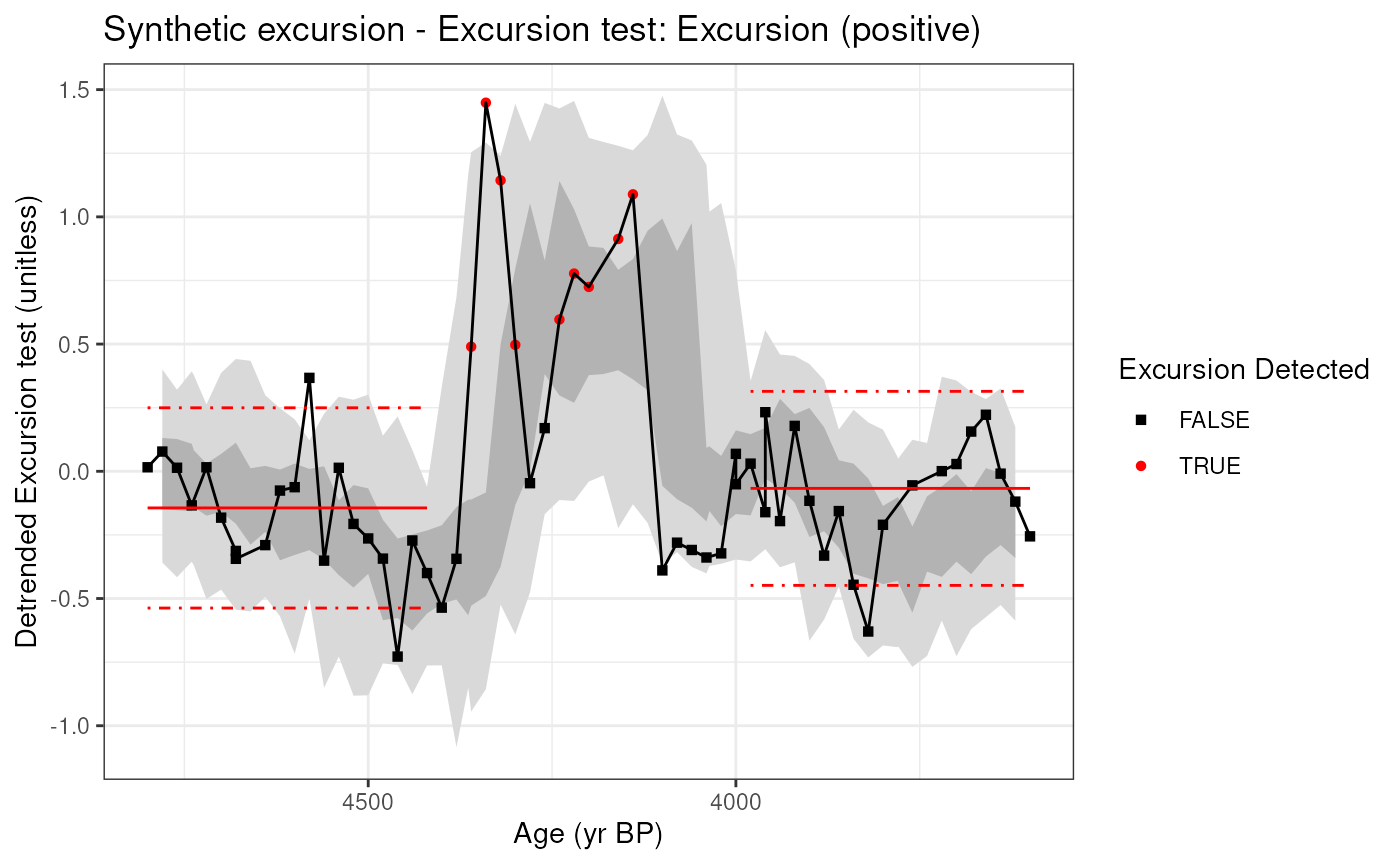
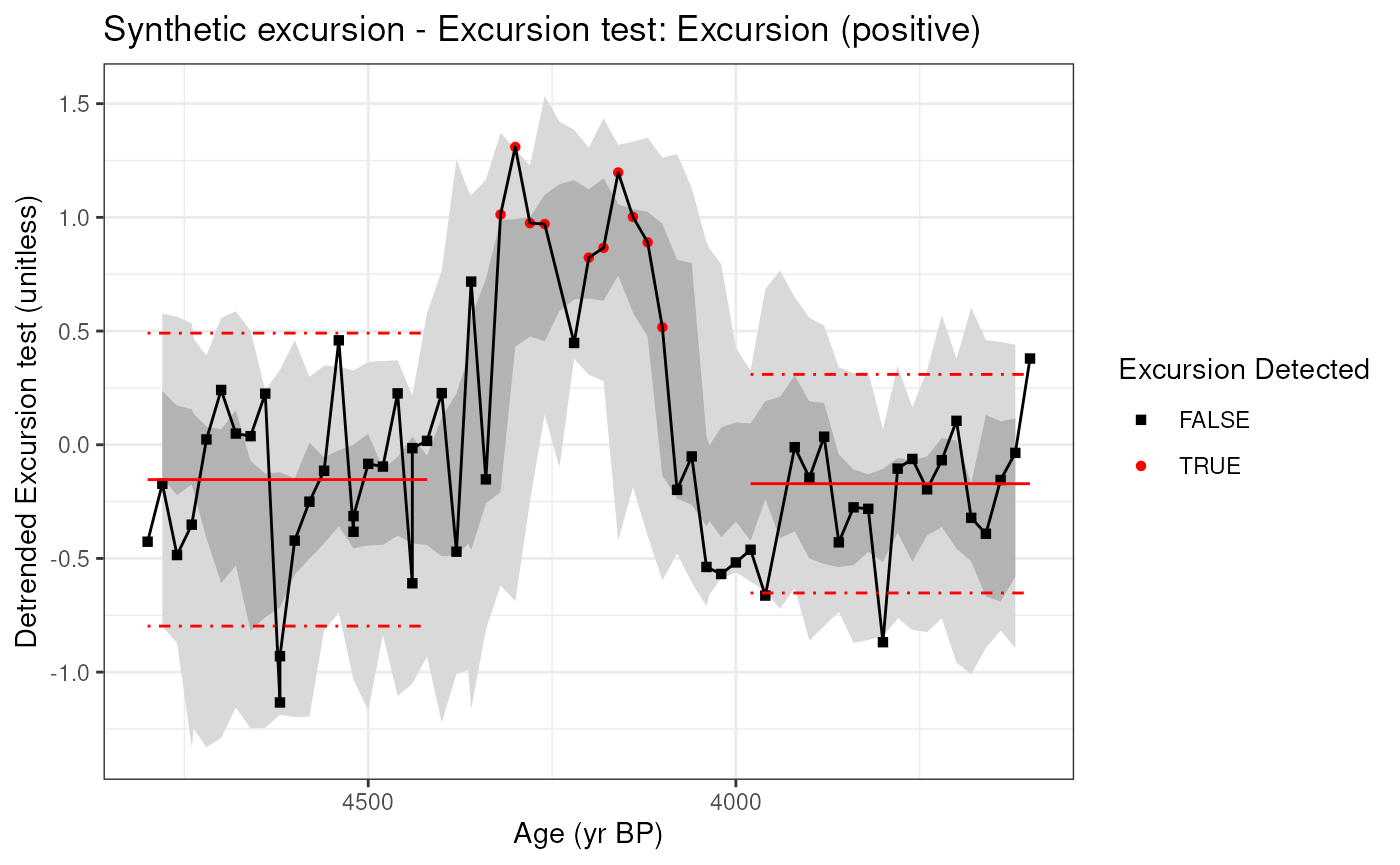
Deploying to gh-pages from @ LinkedEarth/actR@6e4e0f8905d2092e5438ac9460065cdd15b53cc9 🚀

diff --git a/articles/detectExcursion.html b/articles/detectExcursion.html
@@ -146,7 +146,7 @@ functions will summarize the results.</p>
 <span><span class="co"><span style="font-weight: bold;">#&gt; </span><span style="color: #555555;">sig.num = 2</span></span></span>
 <span><span class="co"><span style="color: #555555;">#&gt; n.consecutive = 2</span></span></span>
 <span><span class="co"><span style="color: #555555;">#&gt; exc.type = either</span></span></span>
-<span><span class="co"><span style="color: #555555;">#&gt; min.vals = 4</span></span></span>
+<span><span class="co"><span style="color: #555555;">#&gt; min.vals = 2</span></span></span>
 <span><span class="co"><span style="color: #555555;">#&gt; na.rm = TRUE</span></span></span>
 <span><span class="co"><span style="color: #555555;">#&gt; </span></span></span></code></pre></div>
 <p>Here we see the results, but it’s easier to see the results,
@@ -196,21 +196,17 @@ null hypothesis simulation 50 times.</p>
 <span><span class="co">#&gt; Selected d18O</span></span>
 <span><span class="co">#&gt; <span style="color: #00BB00;">Testing null hypothesis with 50 simulations, each with 50 ensemble members. </span></span></span>
 <span><span class="co"><span style="color: #00BB00;">#&gt; </span></span></span>
-<span><span class="co">#&gt; Testing null hypothesis <span style="color: #00BB00;">■■                              </span>   2% |  ETA:  1m</span></span>
-<span><span class="co">#&gt; Testing null hypothesis <span style="color: #00BB00;">■■■■                            </span>  10% |  ETA: 45s</span></span>
-<span><span class="co">#&gt; Testing null hypothesis <span style="color: #00BB00;">■■■■■■                          </span>  16% |  ETA: 40s</span></span>
-<span><span class="co">#&gt; Testing null hypothesis <span style="color: #00BB00;">■■■■■■■■                        </span>  22% |  ETA: 37s</span></span>
-<span><span class="co">#&gt; Testing null hypothesis <span style="color: #00BB00;">■■■■■■■■■■                      </span>  30% |  ETA: 33s</span></span>
-<span><span class="co">#&gt; Testing null hypothesis <span style="color: #00BB00;">■■■■■■■■■■■■                    </span>  36% |  ETA: 30s</span></span>
-<span><span class="co">#&gt; Testing null hypothesis <span style="color: #00BB00;">■■■■■■■■■■■■■■                  </span>  42% |  ETA: 28s</span></span>
-<span><span class="co">#&gt; Testing null hypothesis <span style="color: #00BB00;">■■■■■■■■■■■■■■■                 </span>  48% |  ETA: 24s</span></span>
-<span><span class="co">#&gt; Testing null hypothesis <span style="color: #00BB00;">■■■■■■■■■■■■■■■■■■              </span>  56% |  ETA: 20s</span></span>
-<span><span class="co">#&gt; Testing null hypothesis <span style="color: #00BB00;">■■■■■■■■■■■■■■■■■■■■            </span>  62% |  ETA: 18s</span></span>
-<span><span class="co">#&gt; Testing null hypothesis <span style="color: #00BB00;">■■■■■■■■■■■■■■■■■■■■■           </span>  68% |  ETA: 15s</span></span>
-<span><span class="co">#&gt; Testing null hypothesis <span style="color: #00BB00;">■■■■■■■■■■■■■■■■■■■■■■■■        </span>  76% |  ETA: 11s</span></span>
-<span><span class="co">#&gt; Testing null hypothesis <span style="color: #00BB00;">■■■■■■■■■■■■■■■■■■■■■■■■■■      </span>  82% |  ETA:  8s</span></span>
-<span><span class="co">#&gt; Testing null hypothesis <span style="color: #00BB00;">■■■■■■■■■■■■■■■■■■■■■■■■■■■     </span>  88% |  ETA:  6s</span></span>
-<span><span class="co">#&gt; Testing null hypothesis <span style="color: #00BB00;">■■■■■■■■■■■■■■■■■■■■■■■■■■■■■■  </span>  96% |  ETA:  2s</span></span></code></pre></div>
+<span><span class="co">#&gt; Testing null hypothesis <span style="color: #00BB00;">■■■                             </span>   6% |  ETA: 37s</span></span>
+<span><span class="co">#&gt; Testing null hypothesis <span style="color: #00BB00;">■■■■■                           </span>  14% |  ETA: 31s</span></span>
+<span><span class="co">#&gt; Testing null hypothesis <span style="color: #00BB00;">■■■■■■■■                        </span>  24% |  ETA: 26s</span></span>
+<span><span class="co">#&gt; Testing null hypothesis <span style="color: #00BB00;">■■■■■■■■■■■                     </span>  34% |  ETA: 22s</span></span>
+<span><span class="co">#&gt; Testing null hypothesis <span style="color: #00BB00;">■■■■■■■■■■■■■■                  </span>  42% |  ETA: 20s</span></span>
+<span><span class="co">#&gt; Testing null hypothesis <span style="color: #00BB00;">■■■■■■■■■■■■■■■■■               </span>  52% |  ETA: 16s</span></span>
+<span><span class="co">#&gt; Testing null hypothesis <span style="color: #00BB00;">■■■■■■■■■■■■■■■■■■■             </span>  60% |  ETA: 13s</span></span>
+<span><span class="co">#&gt; Testing null hypothesis <span style="color: #00BB00;">■■■■■■■■■■■■■■■■■■■■■■          </span>  70% |  ETA: 10s</span></span>
+<span><span class="co">#&gt; Testing null hypothesis <span style="color: #00BB00;">■■■■■■■■■■■■■■■■■■■■■■■■        </span>  78% |  ETA:  7s</span></span>
+<span><span class="co">#&gt; Testing null hypothesis <span style="color: #00BB00;">■■■■■■■■■■■■■■■■■■■■■■■■■■■     </span>  88% |  ETA:  4s</span></span>
+<span><span class="co">#&gt; Testing null hypothesis <span style="color: #00BB00;">■■■■■■■■■■■■■■■■■■■■■■■■■■■■■■  </span>  96% |  ETA:  1s</span></span></code></pre></div>
 <p>This time, when we summarize the results, we get more interesting
 output, including an empirical p-value, which is the fraction of null
 hypothesis simulations that exceed the positivity rate in the actual
@@ -221,7 +217,7 @@ significant.</p>
 <span><span class="co">#&gt; <span style="font-weight: bold;">NGRIP.NGRIP.2004 - d18O: Excursion test results</span></span></span>
 <span><span class="co"><span style="font-weight: bold;">#&gt; </span><span style="color: #555555;">Searched for </span><span style="color: #555555; font-weight: bold;">negative</span><span style="color: #555555;"> excursions in a </span><span style="color: #555555; font-weight: bold;">200</span><span style="color: #555555;"> year window around </span><span style="color: #555555; font-weight: bold;">8200</span><span style="color: #555555;"> BP, with reference windows of </span><span style="color: #555555; font-weight: bold;">400</span><span style="color: #555555;"> years on either side.</span></span></span>
 <span><span class="co"><span style="color: #555555;">#&gt; </span></span></span>
-<span><span class="co">#&gt; <span style="font-weight: bold;">Overall result: Empirical p-value = </span><span style="color: #BB0000; font-weight: bold;">0.0612244897959183</span></span></span>
+<span><span class="co">#&gt; <span style="font-weight: bold;">Overall result: Empirical p-value = </span><span style="color: #BB0000; font-weight: bold;">0.0638297872340425</span></span></span>
 <span><span class="co"><span style="font-weight: bold;">#&gt; </span>Time uncertainty considered? <span style="color: #BB0000;">FALSE</span></span></span>
 <span><span class="co">#&gt; Paleo uncertainty considered? <span style="color: #00BB00;">TRUE</span></span></span>
 <span><span class="co">#&gt; Error propagation ensemble members = 50</span></span>
@@ -231,7 +227,7 @@ significant.</p>
 <span><span class="co"><span style="font-weight: bold;">#&gt; </span><span style="color: #555555;">sig.num = 2</span></span></span>
 <span><span class="co"><span style="color: #555555;">#&gt; n.consecutive = 2</span></span></span>
 <span><span class="co"><span style="color: #555555;">#&gt; exc.type = negative</span></span></span>
-<span><span class="co"><span style="color: #555555;">#&gt; min.vals = 4</span></span></span>
+<span><span class="co"><span style="color: #555555;">#&gt; min.vals = 2</span></span></span>
 <span><span class="co"><span style="color: #555555;">#&gt; na.rm = TRUE</span></span></span>
 <span><span class="co"><span style="color: #555555;">#&gt; </span></span></span></code></pre></div>
 <p>We also get a bit more information when plotting with uncertainties.
@@ -279,25 +275,20 @@ through our robust null hypothesis testing.</p>
 <span><span class="co">#&gt; Selected d18O</span></span>
 <span><span class="co">#&gt; <span style="color: #00BB00;">Testing null hypothesis with 50 simulations, each with 50 ensemble members. </span></span></span>
 <span><span class="co"><span style="color: #00BB00;">#&gt; </span></span></span>
-<span><span class="co">#&gt; Testing null hypothesis <span style="color: #00BB00;">■■                              </span>   4% |  ETA:  1m</span></span>
-<span><span class="co">#&gt; Testing null hypothesis <span style="color: #00BB00;">■■■                             </span>   8% |  ETA:  1m</span></span>
-<span><span class="co">#&gt; Testing null hypothesis <span style="color: #00BB00;">■■■■■                           </span>  14% |  ETA:  1m</span></span>
-<span><span class="co">#&gt; Testing null hypothesis <span style="color: #00BB00;">■■■■■■                          </span>  18% |  ETA: 48s</span></span>
-<span><span class="co">#&gt; Testing null hypothesis <span style="color: #00BB00;">■■■■■■■■                        </span>  24% |  ETA: 44s</span></span>
-<span><span class="co">#&gt; Testing null hypothesis <span style="color: #00BB00;">■■■■■■■■■■                      </span>  30% |  ETA: 40s</span></span>
-<span><span class="co">#&gt; Testing null hypothesis <span style="color: #00BB00;">■■■■■■■■■■■                     </span>  34% |  ETA: 38s</span></span>
-<span><span class="co">#&gt; Testing null hypothesis <span style="color: #00BB00;">■■■■■■■■■■■■■                   </span>  40% |  ETA: 34s</span></span>
-<span><span class="co">#&gt; Testing null hypothesis <span style="color: #00BB00;">■■■■■■■■■■■■■■                  </span>  44% |  ETA: 32s</span></span>
-<span><span class="co">#&gt; Testing null hypothesis <span style="color: #00BB00;">■■■■■■■■■■■■■■■■                </span>  50% |  ETA: 29s</span></span>
-<span><span class="co">#&gt; Testing null hypothesis <span style="color: #00BB00;">■■■■■■■■■■■■■■■■■■              </span>  56% |  ETA: 25s</span></span>
-<span><span class="co">#&gt; Testing null hypothesis <span style="color: #00BB00;">■■■■■■■■■■■■■■■■■■■             </span>  60% |  ETA: 23s</span></span>
-<span><span class="co">#&gt; Testing null hypothesis <span style="color: #00BB00;">■■■■■■■■■■■■■■■■■■■■■           </span>  66% |  ETA: 20s</span></span>
-<span><span class="co">#&gt; Testing null hypothesis <span style="color: #00BB00;">■■■■■■■■■■■■■■■■■■■■■■■         </span>  72% |  ETA: 16s</span></span>
-<span><span class="co">#&gt; Testing null hypothesis <span style="color: #00BB00;">■■■■■■■■■■■■■■■■■■■■■■■■        </span>  76% |  ETA: 14s</span></span>
-<span><span class="co">#&gt; Testing null hypothesis <span style="color: #00BB00;">■■■■■■■■■■■■■■■■■■■■■■■■■■      </span>  82% |  ETA: 10s</span></span>
-<span><span class="co">#&gt; Testing null hypothesis <span style="color: #00BB00;">■■■■■■■■■■■■■■■■■■■■■■■■■■■     </span>  88% |  ETA:  7s</span></span>
-<span><span class="co">#&gt; Testing null hypothesis <span style="color: #00BB00;">■■■■■■■■■■■■■■■■■■■■■■■■■■■■■   </span>  92% |  ETA:  5s</span></span>
-<span><span class="co">#&gt; Testing null hypothesis <span style="color: #00BB00;">■■■■■■■■■■■■■■■■■■■■■■■■■■■■■■  </span>  98% |  ETA:  1s</span></span></code></pre></div>
+<span><span class="co">#&gt; Testing null hypothesis <span style="color: #00BB00;">■■■                             </span>   6% |  ETA: 42s</span></span>
+<span><span class="co">#&gt; Testing null hypothesis <span style="color: #00BB00;">■■■■■                           </span>  14% |  ETA: 39s</span></span>
+<span><span class="co">#&gt; Testing null hypothesis <span style="color: #00BB00;">■■■■■■■                         </span>  20% |  ETA: 37s</span></span>
+<span><span class="co">#&gt; Testing null hypothesis <span style="color: #00BB00;">■■■■■■■■■                       </span>  26% |  ETA: 34s</span></span>
+<span><span class="co">#&gt; Testing null hypothesis <span style="color: #00BB00;">■■■■■■■■■■■                     </span>  34% |  ETA: 29s</span></span>
+<span><span class="co">#&gt; Testing null hypothesis <span style="color: #00BB00;">■■■■■■■■■■■■■                   </span>  40% |  ETA: 26s</span></span>
+<span><span class="co">#&gt; Testing null hypothesis <span style="color: #00BB00;">■■■■■■■■■■■■■■■                 </span>  48% |  ETA: 23s</span></span>
+<span><span class="co">#&gt; Testing null hypothesis <span style="color: #00BB00;">■■■■■■■■■■■■■■■■■               </span>  54% |  ETA: 20s</span></span>
+<span><span class="co">#&gt; Testing null hypothesis <span style="color: #00BB00;">■■■■■■■■■■■■■■■■■■■             </span>  60% |  ETA: 18s</span></span>
+<span><span class="co">#&gt; Testing null hypothesis <span style="color: #00BB00;">■■■■■■■■■■■■■■■■■■■■■           </span>  68% |  ETA: 14s</span></span>
+<span><span class="co">#&gt; Testing null hypothesis <span style="color: #00BB00;">■■■■■■■■■■■■■■■■■■■■■■■         </span>  74% |  ETA: 12s</span></span>
+<span><span class="co">#&gt; Testing null hypothesis <span style="color: #00BB00;">■■■■■■■■■■■■■■■■■■■■■■■■■■      </span>  82% |  ETA:  8s</span></span>
+<span><span class="co">#&gt; Testing null hypothesis <span style="color: #00BB00;">■■■■■■■■■■■■■■■■■■■■■■■■■■■     </span>  88% |  ETA:  5s</span></span>
+<span><span class="co">#&gt; Testing null hypothesis <span style="color: #00BB00;">■■■■■■■■■■■■■■■■■■■■■■■■■■■■■   </span>  94% |  ETA:  3s</span></span></code></pre></div>
 <p>Let’s examine the result.</p>
 <div class="sourceCode" id="cb9"><pre class="downlit sourceCode r">
 <code class="sourceCode R"><span></span>
@@ -305,7 +296,7 @@ through our robust null hypothesis testing.</p>
 <span><span class="co">#&gt; <span style="font-weight: bold;">NGRIP.NGRIP.2004 - d18O: Excursion test results</span></span></span>
 <span><span class="co"><span style="font-weight: bold;">#&gt; </span><span style="color: #555555;">Searched for </span><span style="color: #555555; font-weight: bold;">negative</span><span style="color: #555555;"> excursions in a </span><span style="color: #555555; font-weight: bold;">200</span><span style="color: #555555;"> year window around </span><span style="color: #555555; font-weight: bold;">8200</span><span style="color: #555555;"> BP, with reference windows of </span><span style="color: #555555; font-weight: bold;">400</span><span style="color: #555555;"> years on either side.</span></span></span>
 <span><span class="co"><span style="color: #555555;">#&gt; </span></span></span>
-<span><span class="co">#&gt; <span style="font-weight: bold;">Overall result: Empirical p-value = </span><span style="color: #00BB00; font-weight: bold;">0</span></span></span>
+<span><span class="co">#&gt; <span style="font-weight: bold;">Overall result: Empirical p-value = </span><span style="color: #00BB00; font-weight: bold;">0.02</span></span></span>
 <span><span class="co"><span style="font-weight: bold;">#&gt; </span>Time uncertainty considered? <span style="color: #00BB00;">TRUE</span></span></span>
 <span><span class="co">#&gt; Paleo uncertainty considered? <span style="color: #00BB00;">TRUE</span></span></span>
 <span><span class="co">#&gt; Error propagation ensemble members = 50</span></span>
@@ -315,7 +306,7 @@ through our robust null hypothesis testing.</p>
 <span><span class="co"><span style="font-weight: bold;">#&gt; </span><span style="color: #555555;">sig.num = 2</span></span></span>
 <span><span class="co"><span style="color: #555555;">#&gt; n.consecutive = 2</span></span></span>
 <span><span class="co"><span style="color: #555555;">#&gt; exc.type = negative</span></span></span>
-<span><span class="co"><span style="color: #555555;">#&gt; min.vals = 4</span></span></span>
+<span><span class="co"><span style="color: #555555;">#&gt; min.vals = 2</span></span></span>
 <span><span class="co"><span style="color: #555555;">#&gt; na.rm = TRUE</span></span></span>
 <span><span class="co"><span style="color: #555555;">#&gt; </span></span></span></code></pre></div>
 <p>And plot the output.</p>

diff --git a/articles/makeExcursion.html b/articles/makeExcursion.html
@@ -131,13 +131,11 @@ hypothesis testing.</p>
 <span>                          null.hypothesis.n <span class="op">=</span> <span class="fl">10</span>,</span>
 <span>                          simulate.time.uncertainty <span class="op">=</span> <span class="cn">FALSE</span>,</span>
 <span>                          simulate.paleo.uncertainty <span class="op">=</span> <span class="cn">FALSE</span><span class="op">)</span></span></code></pre></div>
-<pre><code><span><span class="co">## Warning in .f(time = .l[[1L]][[i]], vals = .l[[2L]][[i]], event.yr =</span></span>
-<span><span class="co">## .l[[3L]][[i]], : insufficient minimum values</span></span></code></pre>
 <pre><code><span><span class="co">## <span style="color: #00BB00;">Testing null hypothesis with 10 simulations, each with 10 ensemble members. </span></span></span>
 <span><span class="co"><span style="color: #00BB00;">## </span></span></span></code></pre>
 <p>Now we can use <code><a href="https://rdrr.io/r/base/print.html" class="external-link">print()</a></code> and plot to check out the
 results</p>
-<div class="sourceCode" id="cb5"><pre class="downlit sourceCode r">
+<div class="sourceCode" id="cb4"><pre class="downlit sourceCode r">
 <code class="sourceCode R"><span><span class="fu"><a href="https://rdrr.io/r/base/print.html" class="external-link">print</a></span><span class="op">(</span><span class="va">detectedExcusion</span><span class="op">)</span></span></code></pre></div>
 <pre><code><span><span class="co">## Warning in .x == .y: longer object length is not a multiple of shorter object</span></span>
 <span><span class="co">## length</span></span>
@@ -205,11 +203,11 @@ results</p>
 <span><span class="co"><span style="font-weight: bold;">## </span><span style="color: #555555;">sig.num = 2.2854998252122</span></span></span>
 <span><span class="co"><span style="color: #555555;">## n.consecutive = 2</span></span></span>
 <span><span class="co"><span style="color: #555555;">## exc.type = either</span></span></span>
-<span><span class="co"><span style="color: #555555;">## min.vals = 4</span></span></span>
+<span><span class="co"><span style="color: #555555;">## min.vals = 2</span></span></span>
 <span><span class="co"><span style="color: #555555;">## na.rm = TRUE</span></span></span>
 <span><span class="co"><span style="color: #555555;">## </span></span></span></code></pre>
 <p>Let’s plot the results</p>
-<div class="sourceCode" id="cb8"><pre class="downlit sourceCode r">
+<div class="sourceCode" id="cb7"><pre class="downlit sourceCode r">
 <code class="sourceCode R"><span><span class="fu"><a href="https://rdrr.io/r/graphics/plot.default.html" class="external-link">plot</a></span><span class="op">(</span><span class="va">detectedExcusion</span><span class="op">)</span></span></code></pre></div>
 <pre><code><span><span class="co">## Warning in .x == .y: longer object length is not a multiple of shorter object</span></span>
 <span><span class="co">## length</span></span>
@@ -273,7 +271,7 @@ results</p>
 excursions. This could be done with age or paleo ensembles included in
 the data, but for our synthetic experiment, we’ll simulate age and paleo
 uncertainty.</p>
-<div class="sourceCode" id="cb10"><pre class="downlit sourceCode r">
+<div class="sourceCode" id="cb9"><pre class="downlit sourceCode r">
 <code class="sourceCode R"><span><span class="va">detectedExcusionEns</span> <span class="op">&lt;-</span> <span class="fu"><a href="../reference/detectExcursion.html">detectExcursion</a></span><span class="op">(</span><span class="va">syntheticExcursion</span>,</span>
 <span>                          event.yr <span class="op">=</span> <span class="fl">4200</span>,</span>
 <span>                          event.window <span class="op">=</span> <span class="fl">400</span>,</span>
@@ -286,22 +284,18 @@ uncertainty.</p>
 <span>                          simulate.paleo.uncertainty <span class="op">=</span> <span class="cn">TRUE</span><span class="op">)</span></span></code></pre></div>
 <pre><code><span><span class="co">## <span style="color: #00BB00;">Testing null hypothesis with 50 simulations, each with 50 ensemble members. </span></span></span>
 <span><span class="co"><span style="color: #00BB00;">## </span></span></span></code></pre>
-<pre><code><span><span class="co">## Testing null hypothesis <span style="color: #00BB00;">■■■                             </span>   6% |  ETA: 45s</span></span></code></pre>
-<pre><code><span><span class="co">## Testing null hypothesis <span style="color: #00BB00;">■■■■■                           </span>  12% |  ETA: 45s</span></span></code></pre>
-<pre><code><span><span class="co">## Testing null hypothesis <span style="color: #00BB00;">■■■■■■                          </span>  18% |  ETA: 40s</span></span></code></pre>
-<pre><code><span><span class="co">## Testing null hypothesis <span style="color: #00BB00;">■■■■■■■■■                       </span>  26% |  ETA: 35s</span></span></code></pre>
-<pre><code><span><span class="co">## Testing null hypothesis <span style="color: #00BB00;">■■■■■■■■■■■                     </span>  32% |  ETA: 32s</span></span></code></pre>
-<pre><code><span><span class="co">## Testing null hypothesis <span style="color: #00BB00;">■■■■■■■■■■■■■                   </span>  40% |  ETA: 27s</span></span></code></pre>
-<pre><code><span><span class="co">## Testing null hypothesis <span style="color: #00BB00;">■■■■■■■■■■■■■■■                 </span>  46% |  ETA: 24s</span></span></code></pre>
-<pre><code><span><span class="co">## Testing null hypothesis <span style="color: #00BB00;">■■■■■■■■■■■■■■■■■               </span>  54% |  ETA: 21s</span></span></code></pre>
-<pre><code><span><span class="co">## Testing null hypothesis <span style="color: #00BB00;">■■■■■■■■■■■■■■■■■■■             </span>  60% |  ETA: 18s</span></span></code></pre>
-<pre><code><span><span class="co">## Testing null hypothesis <span style="color: #00BB00;">■■■■■■■■■■■■■■■■■■■■■           </span>  68% |  ETA: 14s</span></span></code></pre>
-<pre><code><span><span class="co">## Testing null hypothesis <span style="color: #00BB00;">■■■■■■■■■■■■■■■■■■■■■■■■        </span>  76% |  ETA: 11s</span></span></code></pre>
-<pre><code><span><span class="co">## Testing null hypothesis <span style="color: #00BB00;">■■■■■■■■■■■■■■■■■■■■■■■■■■      </span>  82% |  ETA:  8s</span></span></code></pre>
-<pre><code><span><span class="co">## Testing null hypothesis <span style="color: #00BB00;">■■■■■■■■■■■■■■■■■■■■■■■■■■■■    </span>  90% |  ETA:  4s</span></span></code></pre>
-<pre><code><span><span class="co">## Testing null hypothesis <span style="color: #00BB00;">■■■■■■■■■■■■■■■■■■■■■■■■■■■■■■  </span>  96% |  ETA:  2s</span></span></code></pre>
+<pre><code><span><span class="co">## Testing null hypothesis <span style="color: #00BB00;">■■■■■                           </span>  12% |  ETA: 31s</span></span></code></pre>
+<pre><code><span><span class="co">## Testing null hypothesis <span style="color: #00BB00;">■■■■■■                          </span>  18% |  ETA: 30s</span></span></code></pre>
+<pre><code><span><span class="co">## Testing null hypothesis <span style="color: #00BB00;">■■■■■■■■■                       </span>  28% |  ETA: 26s</span></span></code></pre>
+<pre><code><span><span class="co">## Testing null hypothesis <span style="color: #00BB00;">■■■■■■■■■■■■                    </span>  36% |  ETA: 22s</span></span></code></pre>
+<pre><code><span><span class="co">## Testing null hypothesis <span style="color: #00BB00;">■■■■■■■■■■■■■■■                 </span>  46% |  ETA: 19s</span></span></code></pre>
+<pre><code><span><span class="co">## Testing null hypothesis <span style="color: #00BB00;">■■■■■■■■■■■■■■■■■■              </span>  56% |  ETA: 15s</span></span></code></pre>
+<pre><code><span><span class="co">## Testing null hypothesis <span style="color: #00BB00;">■■■■■■■■■■■■■■■■■■■■            </span>  64% |  ETA: 12s</span></span></code></pre>
+<pre><code><span><span class="co">## Testing null hypothesis <span style="color: #00BB00;">■■■■■■■■■■■■■■■■■■■■■■■         </span>  74% |  ETA:  9s</span></span></code></pre>
+<pre><code><span><span class="co">## Testing null hypothesis <span style="color: #00BB00;">■■■■■■■■■■■■■■■■■■■■■■■■■■      </span>  82% |  ETA:  6s</span></span></code></pre>
+<pre><code><span><span class="co">## Testing null hypothesis <span style="color: #00BB00;">■■■■■■■■■■■■■■■■■■■■■■■■■■■■■   </span>  92% |  ETA:  3s</span></span></code></pre>
 <p>Now let’s look at the results</p>
-<div class="sourceCode" id="cb26"><pre class="downlit sourceCode r">
+<div class="sourceCode" id="cb21"><pre class="downlit sourceCode r">
 <code class="sourceCode R"><span><span class="fu"><a href="https://rdrr.io/r/base/print.html" class="external-link">print</a></span><span class="op">(</span><span class="va">detectedExcusionEns</span><span class="op">)</span></span></code></pre></div>
 <pre><code><span><span class="co">## <span style="font-weight: bold;">Synthetic excursion - Excursion test: Excursion test results</span></span></span>
 <span><span class="co"><span style="font-weight: bold;">## </span><span style="color: #555555;">Searched for </span><span style="color: #555555; font-weight: bold;">positive</span><span style="color: #555555;"> excursions in a </span><span style="color: #555555; font-weight: bold;">400</span><span style="color: #555555;"> year window around </span><span style="color: #555555; font-weight: bold;">4200</span><span style="color: #555555;"> yr BP, with reference windows of </span><span style="color: #555555; font-weight: bold;">400</span><span style="color: #555555;"> years on either side.</span></span></span>
@@ -316,11 +310,11 @@ uncertainty.</p>
 <span><span class="co"><span style="font-weight: bold;">## </span><span style="color: #555555;">sig.num = 2</span></span></span>
 <span><span class="co"><span style="color: #555555;">## n.consecutive = 2</span></span></span>
 <span><span class="co"><span style="color: #555555;">## exc.type = positive</span></span></span>
-<span><span class="co"><span style="color: #555555;">## min.vals = 4</span></span></span>
+<span><span class="co"><span style="color: #555555;">## min.vals = 2</span></span></span>
 <span><span class="co"><span style="color: #555555;">## na.rm = TRUE</span></span></span>
 <span><span class="co"><span style="color: #555555;">## </span></span></span></code></pre>
 <p>and make a plot</p>
-<div class="sourceCode" id="cb28"><pre class="downlit sourceCode r">
+<div class="sourceCode" id="cb23"><pre class="downlit sourceCode r">
 <code class="sourceCode R"><span><span class="fu"><a href="https://rdrr.io/r/graphics/plot.default.html" class="external-link">plot</a></span><span class="op">(</span><span class="va">detectedExcusionEns</span><span class="op">)</span></span></code></pre></div>
 <p><img src="makeExcursion_files/figure-html/unnamed-chunk-7-1.png" width="700"></p>
 </div>

diff --git a/articles/detectShift.html b/articles/detectShift.html
@@ -121,16 +121,16 @@ null.hypothesis.n]. * specifies a minimum segment length of 3000y</p>
 <span><span class="co">#&gt; <span style="color: #BB00BB;">timeUnits is at least partially absent in the input data</span></span></span>
 <span><span class="co"><span style="color: #BB00BB;">#&gt; </span><span style="color: #00BB00;">Testing null hypothesis with 50 simulations, each with 50 ensemble members. </span></span></span>
 <span><span class="co"><span style="color: #00BB00;">#&gt; </span></span></span>
-<span><span class="co">#&gt; Testing null hypothesis <span style="color: #00BB00;">■■■■■                           </span>  12% |  ETA: 28s</span></span>
-<span><span class="co">#&gt; Testing null hypothesis <span style="color: #00BB00;">■■■■■■■■                        </span>  22% |  ETA: 25s</span></span>
-<span><span class="co">#&gt; Testing null hypothesis <span style="color: #00BB00;">■■■■■■■■■■                      </span>  30% |  ETA: 23s</span></span>
-<span><span class="co">#&gt; Testing null hypothesis <span style="color: #00BB00;">■■■■■■■■■■■■■                   </span>  40% |  ETA: 20s</span></span>
-<span><span class="co">#&gt; Testing null hypothesis <span style="color: #00BB00;">■■■■■■■■■■■■■■■                 </span>  48% |  ETA: 17s</span></span>
-<span><span class="co">#&gt; Testing null hypothesis <span style="color: #00BB00;">■■■■■■■■■■■■■■■■■■              </span>  58% |  ETA: 14s</span></span>
-<span><span class="co">#&gt; Testing null hypothesis <span style="color: #00BB00;">■■■■■■■■■■■■■■■■■■■■■           </span>  66% |  ETA: 11s</span></span>
-<span><span class="co">#&gt; Testing null hypothesis <span style="color: #00BB00;">■■■■■■■■■■■■■■■■■■■■■■■         </span>  74% |  ETA:  9s</span></span>
-<span><span class="co">#&gt; Testing null hypothesis <span style="color: #00BB00;">■■■■■■■■■■■■■■■■■■■■■■■■■■      </span>  82% |  ETA:  6s</span></span>
-<span><span class="co">#&gt; Testing null hypothesis <span style="color: #00BB00;">■■■■■■■■■■■■■■■■■■■■■■■■■■■■■   </span>  92% |  ETA:  3s</span></span></code></pre></div>
+<span><span class="co">#&gt; Testing null hypothesis <span style="color: #00BB00;">■■■■                            </span>  10% |  ETA: 29s</span></span>
+<span><span class="co">#&gt; Testing null hypothesis <span style="color: #00BB00;">■■■■■■■                         </span>  20% |  ETA: 26s</span></span>
+<span><span class="co">#&gt; Testing null hypothesis <span style="color: #00BB00;">■■■■■■■■■                       </span>  28% |  ETA: 24s</span></span>
+<span><span class="co">#&gt; Testing null hypothesis <span style="color: #00BB00;">■■■■■■■■■■■■                    </span>  38% |  ETA: 21s</span></span>
+<span><span class="co">#&gt; Testing null hypothesis <span style="color: #00BB00;">■■■■■■■■■■■■■■■                 </span>  46% |  ETA: 18s</span></span>
+<span><span class="co">#&gt; Testing null hypothesis <span style="color: #00BB00;">■■■■■■■■■■■■■■■■■               </span>  54% |  ETA: 15s</span></span>
+<span><span class="co">#&gt; Testing null hypothesis <span style="color: #00BB00;">■■■■■■■■■■■■■■■■■■■■            </span>  62% |  ETA: 13s</span></span>
+<span><span class="co">#&gt; Testing null hypothesis <span style="color: #00BB00;">■■■■■■■■■■■■■■■■■■■■■■■         </span>  72% |  ETA:  9s</span></span>
+<span><span class="co">#&gt; Testing null hypothesis <span style="color: #00BB00;">■■■■■■■■■■■■■■■■■■■■■■■■■       </span>  80% |  ETA:  7s</span></span>
+<span><span class="co">#&gt; Testing null hypothesis <span style="color: #00BB00;">■■■■■■■■■■■■■■■■■■■■■■■■■■■■    </span>  90% |  ETA:  3s</span></span></code></pre></div>
 <p>This lines generates a textual summary of the output:</p>
 <div class="sourceCode" id="cb3"><pre class="downlit sourceCode r">
 <code class="sourceCode R"><span><span class="fu"><a href="https://rdrr.io/r/base/summary.html" class="external-link">summary</a></span><span class="op">(</span><span class="va">msGeob</span><span class="op">)</span></span>
@@ -181,7 +181,7 @@ attempt to detect changes in the mean.</p>
 <span><span class="co">#&gt; Selected trsgi</span></span>
 <span><span class="co">#&gt; <span style="color: #00BB00;">Testing null hypothesis with 50 simulations, each with 50 ensemble members. </span></span></span>
 <span><span class="co"><span style="color: #00BB00;">#&gt; </span></span></span>
-<span><span class="co">#&gt; Testing null hypothesis <span style="color: #00BB00;">■■■■■                           </span>  14% |  ETA: 16s</span></span>
+<span><span class="co">#&gt; Testing null hypothesis <span style="color: #00BB00;">■■■■■                           </span>  12% |  ETA: 17s</span></span>
 <span><span class="co">#&gt; Testing null hypothesis <span style="color: #00BB00;">■■■■■■■■■■                      </span>  30% |  ETA: 13s</span></span>
 <span><span class="co">#&gt; Testing null hypothesis <span style="color: #00BB00;">■■■■■■■■■■■■■■■                 </span>  46% |  ETA: 10s</span></span>
 <span><span class="co">#&gt; Testing null hypothesis <span style="color: #00BB00;">■■■■■■■■■■■■■■■■■■■■            </span>  62% |  ETA:  7s</span></span>
@@ -211,12 +211,12 @@ package).</p>
 <span><span class="co">#&gt; Selected trsgi</span></span>
 <span><span class="co">#&gt; <span style="color: #00BB00;">Testing null hypothesis with 50 simulations, each with 50 ensemble members. </span></span></span>
 <span><span class="co"><span style="color: #00BB00;">#&gt; </span></span></span>
-<span><span class="co">#&gt; Testing null hypothesis <span style="color: #00BB00;">■■■■■■                          </span>  16% |  ETA: 16s</span></span>
-<span><span class="co">#&gt; Testing null hypothesis <span style="color: #00BB00;">■■■■■■■■■■■                     </span>  32% |  ETA: 13s</span></span>
-<span><span class="co">#&gt; Testing null hypothesis <span style="color: #00BB00;">■■■■■■■■■■■■■■■                 </span>  46% |  ETA: 10s</span></span>
-<span><span class="co">#&gt; Testing null hypothesis <span style="color: #00BB00;">■■■■■■■■■■■■■■■■■■■■            </span>  62% |  ETA:  7s</span></span>
-<span><span class="co">#&gt; Testing null hypothesis <span style="color: #00BB00;">■■■■■■■■■■■■■■■■■■■■■■■■        </span>  78% |  ETA:  4s</span></span>
-<span><span class="co">#&gt; Testing null hypothesis <span style="color: #00BB00;">■■■■■■■■■■■■■■■■■■■■■■■■■■■■■   </span>  94% |  ETA:  1s</span></span></code></pre></div>
+<span><span class="co">#&gt; Testing null hypothesis <span style="color: #00BB00;">■■■■■■                          </span>  18% |  ETA: 15s</span></span>
+<span><span class="co">#&gt; Testing null hypothesis <span style="color: #00BB00;">■■■■■■■■■■■                     </span>  34% |  ETA: 12s</span></span>
+<span><span class="co">#&gt; Testing null hypothesis <span style="color: #00BB00;">■■■■■■■■■■■■■■■■                </span>  50% |  ETA:  9s</span></span>
+<span><span class="co">#&gt; Testing null hypothesis <span style="color: #00BB00;">■■■■■■■■■■■■■■■■■■■■            </span>  64% |  ETA:  7s</span></span>
+<span><span class="co">#&gt; Testing null hypothesis <span style="color: #00BB00;">■■■■■■■■■■■■■■■■■■■■■■■■■       </span>  80% |  ETA:  4s</span></span>
+<span><span class="co">#&gt; Testing null hypothesis <span style="color: #00BB00;">■■■■■■■■■■■■■■■■■■■■■■■■■■■■■■  </span>  96% |  ETA:  1s</span></span></code></pre></div>
 <p>Note also that actR offers 3 different methods to generate
 surrogates, as detailed in the documentation. The default is
 <em>isospectral</em>, which was used in the previous examples. To change

diff --git a/articles/makeShift.html b/articles/makeShift.html
@@ -124,10 +124,10 @@ time 20</p>
 <span>                     n.ens <span class="op">=</span> <span class="fl">50</span><span class="op">)</span></span>
 <span><span class="co">#&gt; <span style="color: #00BB00;">Testing null hypothesis with 50 simulations, each with 50 ensemble members. </span></span></span>
 <span><span class="co"><span style="color: #00BB00;">#&gt; </span></span></span>
-<span><span class="co">#&gt; Testing null hypothesis <span style="color: #00BB00;">■■■■■■■■■■                      </span>  30% |  ETA:  9s</span></span>
-<span><span class="co">#&gt; Testing null hypothesis <span style="color: #00BB00;">■■■■■■■■■■■■■■■                 </span>  48% |  ETA:  7s</span></span>
-<span><span class="co">#&gt; Testing null hypothesis <span style="color: #00BB00;">■■■■■■■■■■■■■■■■■■■■■■          </span>  70% |  ETA:  4s</span></span>
-<span><span class="co">#&gt; Testing null hypothesis <span style="color: #00BB00;">■■■■■■■■■■■■■■■■■■■■■■■■■■■■■   </span>  94% |  ETA:  1s</span></span></code></pre></div>
+<span><span class="co">#&gt; Testing null hypothesis <span style="color: #00BB00;">■■■■■■■■                        </span>  22% |  ETA: 12s</span></span>
+<span><span class="co">#&gt; Testing null hypothesis <span style="color: #00BB00;">■■■■■■■■■■■■                    </span>  38% |  ETA: 10s</span></span>
+<span><span class="co">#&gt; Testing null hypothesis <span style="color: #00BB00;">■■■■■■■■■■■■■■■■■■■             </span>  60% |  ETA:  6s</span></span>
+<span><span class="co">#&gt; Testing null hypothesis <span style="color: #00BB00;">■■■■■■■■■■■■■■■■■■■■■■■■■       </span>  80% |  ETA:  3s</span></span></code></pre></div>
 <p>###Plot shift</p>
 <p>Let’s plot the results</p>
 <div class="sourceCode" id="cb4"><pre class="downlit sourceCode r">
